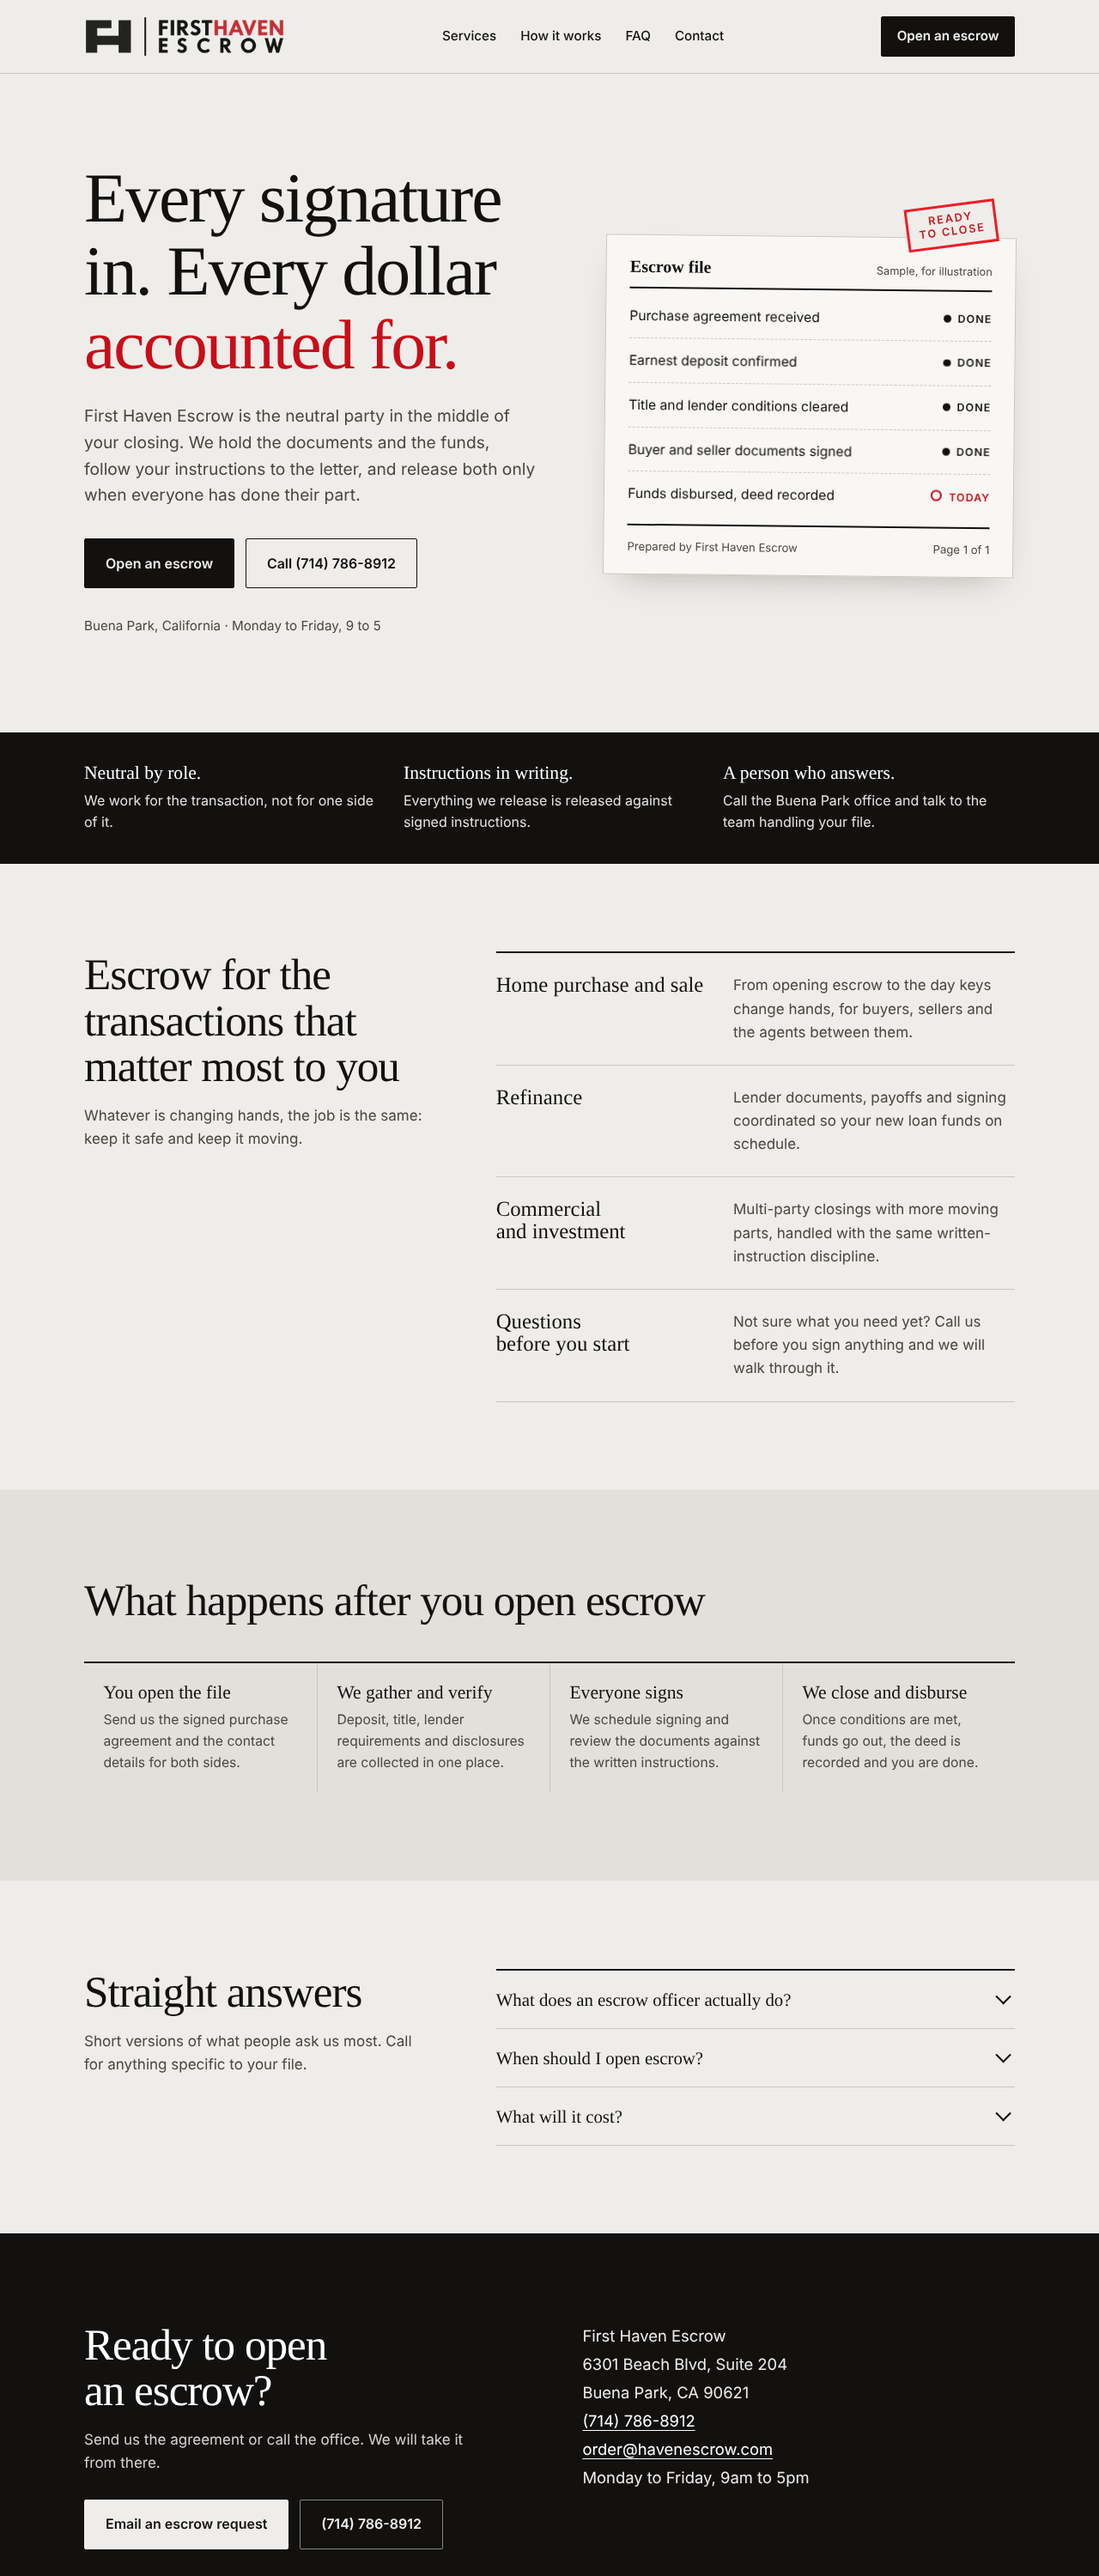
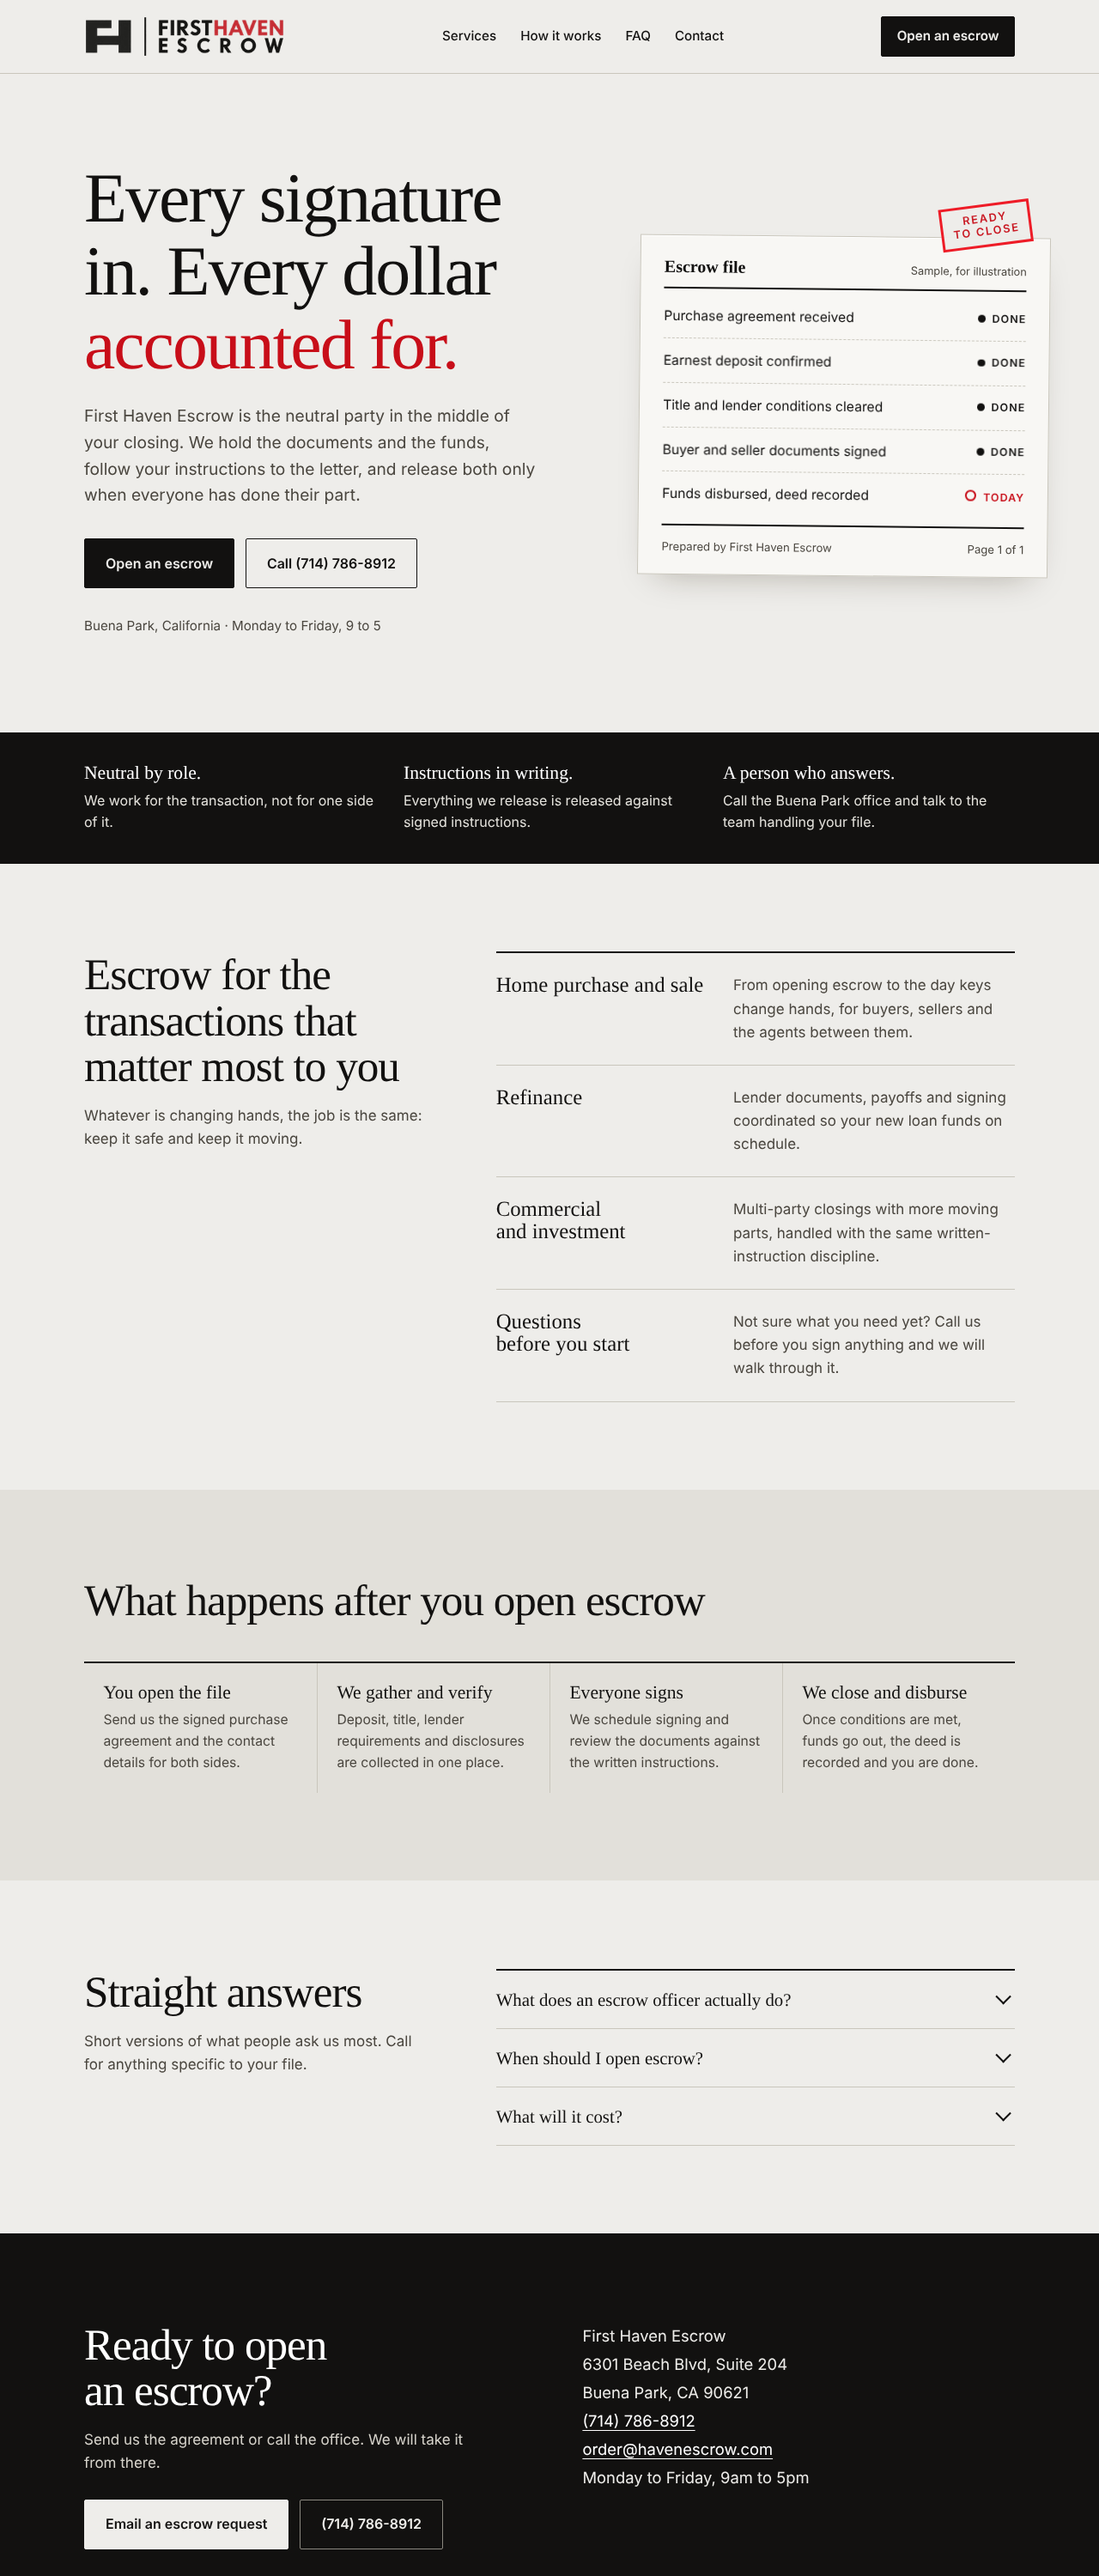
Push escrow file card further right in hero
Claude-Session: https://claude.ai/code/session_01EeqbRTnyesarDgvKXoHgy5

Changed region(s): [[0.5625, 0.093, 0.8125, 0.217], [0.8125, 0.062, 0.9375, 0.217]]

diff --git a/index.html b/index.html
@@ -137,6 +137,8 @@
   footer{padding:1.6rem 0;font-size:.85rem;color:var(--ink-soft);background:var(--paper)}
   footer .wrap{display:flex;justify-content:space-between;gap:1rem;flex-wrap:wrap}
 
+  @media (min-width:901px){ .file{justify-self:end;margin-right:-2.5rem;width:100%} }
+  body{overflow-x:clip}
   @media (max-width:900px){
     nav{display:none}
     .hero,.split,.contact .grid{grid-template-columns:1fr}
